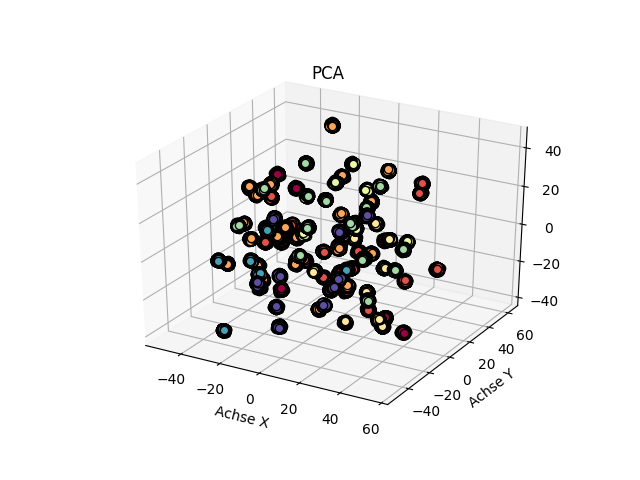
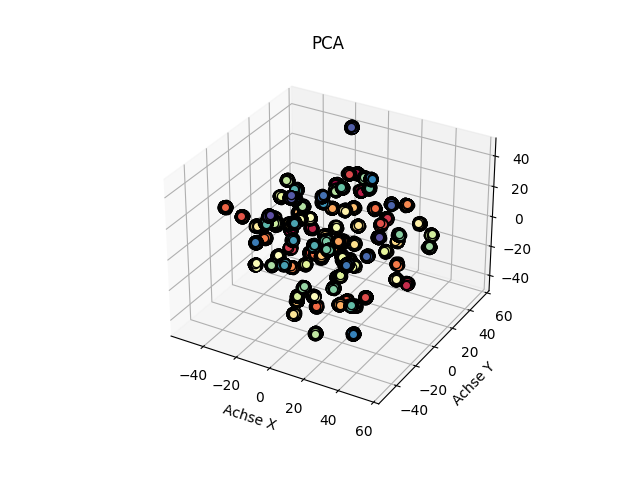
try again kmeans

diff --git a/venv/src/ICW2/Partitional_algorithmen/kmeans/kmeans.py b/venv/src/ICW2/Partitional_algorithmen/kmeans/kmeans.py
@@ -37,6 +37,8 @@
 # 3 milion  764.9357 s
 #4 milion 996.6241 s
 # 5 milion 1215.7721 s , = 20min
+
+
 # PQ: k = 100 31s ,  train 1 trieu 3 phut xong,
 # convert time: 13: 20 to 13:22  co 2 phut thoi
 # run 5 trieu PQ k= 100 trong vong 33s
@@ -82,11 +84,11 @@ import matplotlib.pyplot as plt
 from mpl_toolkits.mplot3d import Axes3D
 from sklearn.decomposition import PCA
 
-n_points_per_cluster_total = 7000000
+n_points_of_cluster = 4000000
 size_colum = 100
 centers = np.random.randint(-20, 20, size=(size_colum,size_colum))
 
-X, labels_true = make_blobs(n_samples=n_points_per_cluster_total,centers=centers, n_features=size_colum, cluster_std=0.4, random_state=0)
+X, labels_true = make_blobs(n_samples=n_points_of_cluster,centers=centers, n_features=size_colum, cluster_std=0.4, random_state=0)
 print(X.shape)
 
 #################################################################### plot data before run
@@ -114,32 +116,32 @@ print(X.shape)
 
 ################################################################################
 db_time = time.time()
-kmeans = KMeans(random_state=0, n_jobs=-1).fit(X)
+kmeans = KMeans(n_clusters=100, random_state=0, n_jobs=-1).fit(X)
 kmeans.predict(X)
 
 db_time_process = time.time() - db_time
 print('Elapsed time to cluster in kmeans :  %.4f s ' % db_time_process)
 
-print(len(kmeans.cluster_centers_))
+# print(len(kmeans.cluster_centers_))
 ################################################################################
 ### Plot data after running
-unique_labels = set(kmeans.labels_)
-colors = plt.cm.Spectral(np.linspace(0, 1, len(unique_labels)))
-fig = plt.figure()
-ax = plt.axes(projection='3d')
-pca = PCA(3)
-projected = pca.fit_transform(X)
-
-for k, col in zip(unique_labels, colors):
-    if k == -1:
-        # Black used for noise.
-        col = 'k'
-    ax.plot3D(projected[kmeans.labels_ == k, 0], projected[kmeans.labels_ == k, 1],projected[kmeans.labels_ == k, 2], 'o', markerfacecolor=col,
-                  markeredgecolor='k', markersize=6)
-
-plt.xlabel('Achse X')
-plt.ylabel('Achse Y')
-plt.title('PCA')
-plt.grid(True)
-plt.savefig('pca/after_%d'%len(X)+'.png')
-plt.show()
+# unique_labels = set(kmeans.labels_)
+# colors = plt.cm.Spectral(np.linspace(0, 1, len(unique_labels)))
+# fig = plt.figure()
+# ax = plt.axes(projection='3d')
+# pca = PCA(3)
+# projected = pca.fit_transform(X)
+#
+# for k, col in zip(unique_labels, colors):
+#     if k == -1:
+#         # Black used for noise.
+#         col = 'k'
+#     ax.plot3D(projected[kmeans.labels_ == k, 0], projected[kmeans.labels_ == k, 1],projected[kmeans.labels_ == k, 2], 'o', markerfacecolor=col,
+#                   markeredgecolor='k', markersize=6)
+#
+# plt.xlabel('Achse X')
+# plt.ylabel('Achse Y')
+# plt.title('PCA')
+# plt.grid(True)
+# plt.savefig('pca/after_%d'%len(X)+'.png')
+# plt.show()

diff --git a/venv/src/ICW2/product_quantization_method_icw/run_subvectors/test.py b/venv/src/ICW2/product_quantization_method_icw/run_subvectors/test.py
@@ -12,12 +12,12 @@ from mpl_toolkits.mplot3d import Axes3D
 from sklearn.decomposition import PCA
 time_all = time.time()
 # Creating the original records in order to cluster it
-n_points_per_cluster_total = 1000
+n_points_cluster = 4000
 size_colum = 100
 centers = np.random.randint(-20, 20, size=(size_colum,size_colum))
 #print('centers', centers[0])
 # train
-X, labels_true = make_blobs(n_samples=n_points_per_cluster_total,
+X, labels_true = make_blobs(n_samples=n_points_cluster,
                             centers=centers,
                             n_features=size_colum,
                             cluster_std=0.4,
